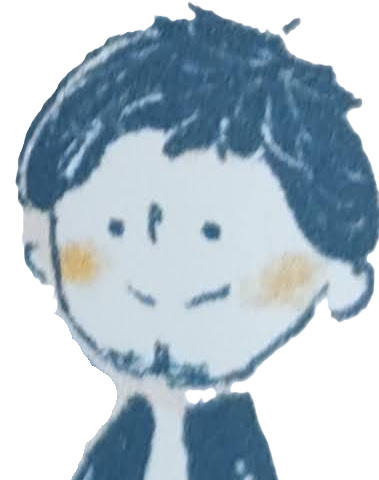
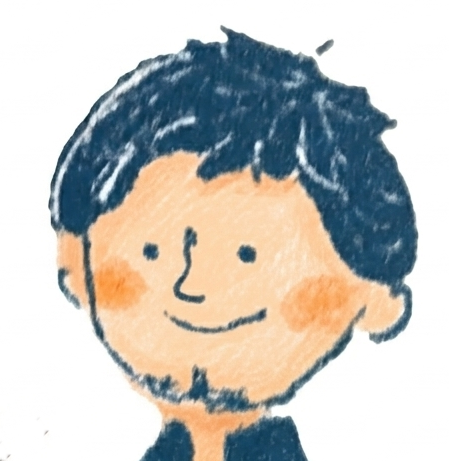
運営者イラストを新画像・円形・緑枠に変更

diff --git a/about.html b/about.html
@@ -212,7 +212,7 @@
           <th>運営</th>
           <td>
             <div style="display:flex;align-items:center;gap:16px;">
-              <img src="/illust.png" alt="E-edu先生" style="width:90px;height:auto;flex-shrink:0;">
+              <img src="/illust.png" alt="E-edu先生" style="width:90px;height:90px;object-fit:cover;border-radius:50%;flex-shrink:0;border:1px solid #059669;">
               <div>E-edu先生：大学教員<br>元公立中学校教員で公認心理師・特別支援教育士SV・臨床発達心理士<br>専門は特別支援教育・インクルーシブ教育</div>
             </div>
           </td>
